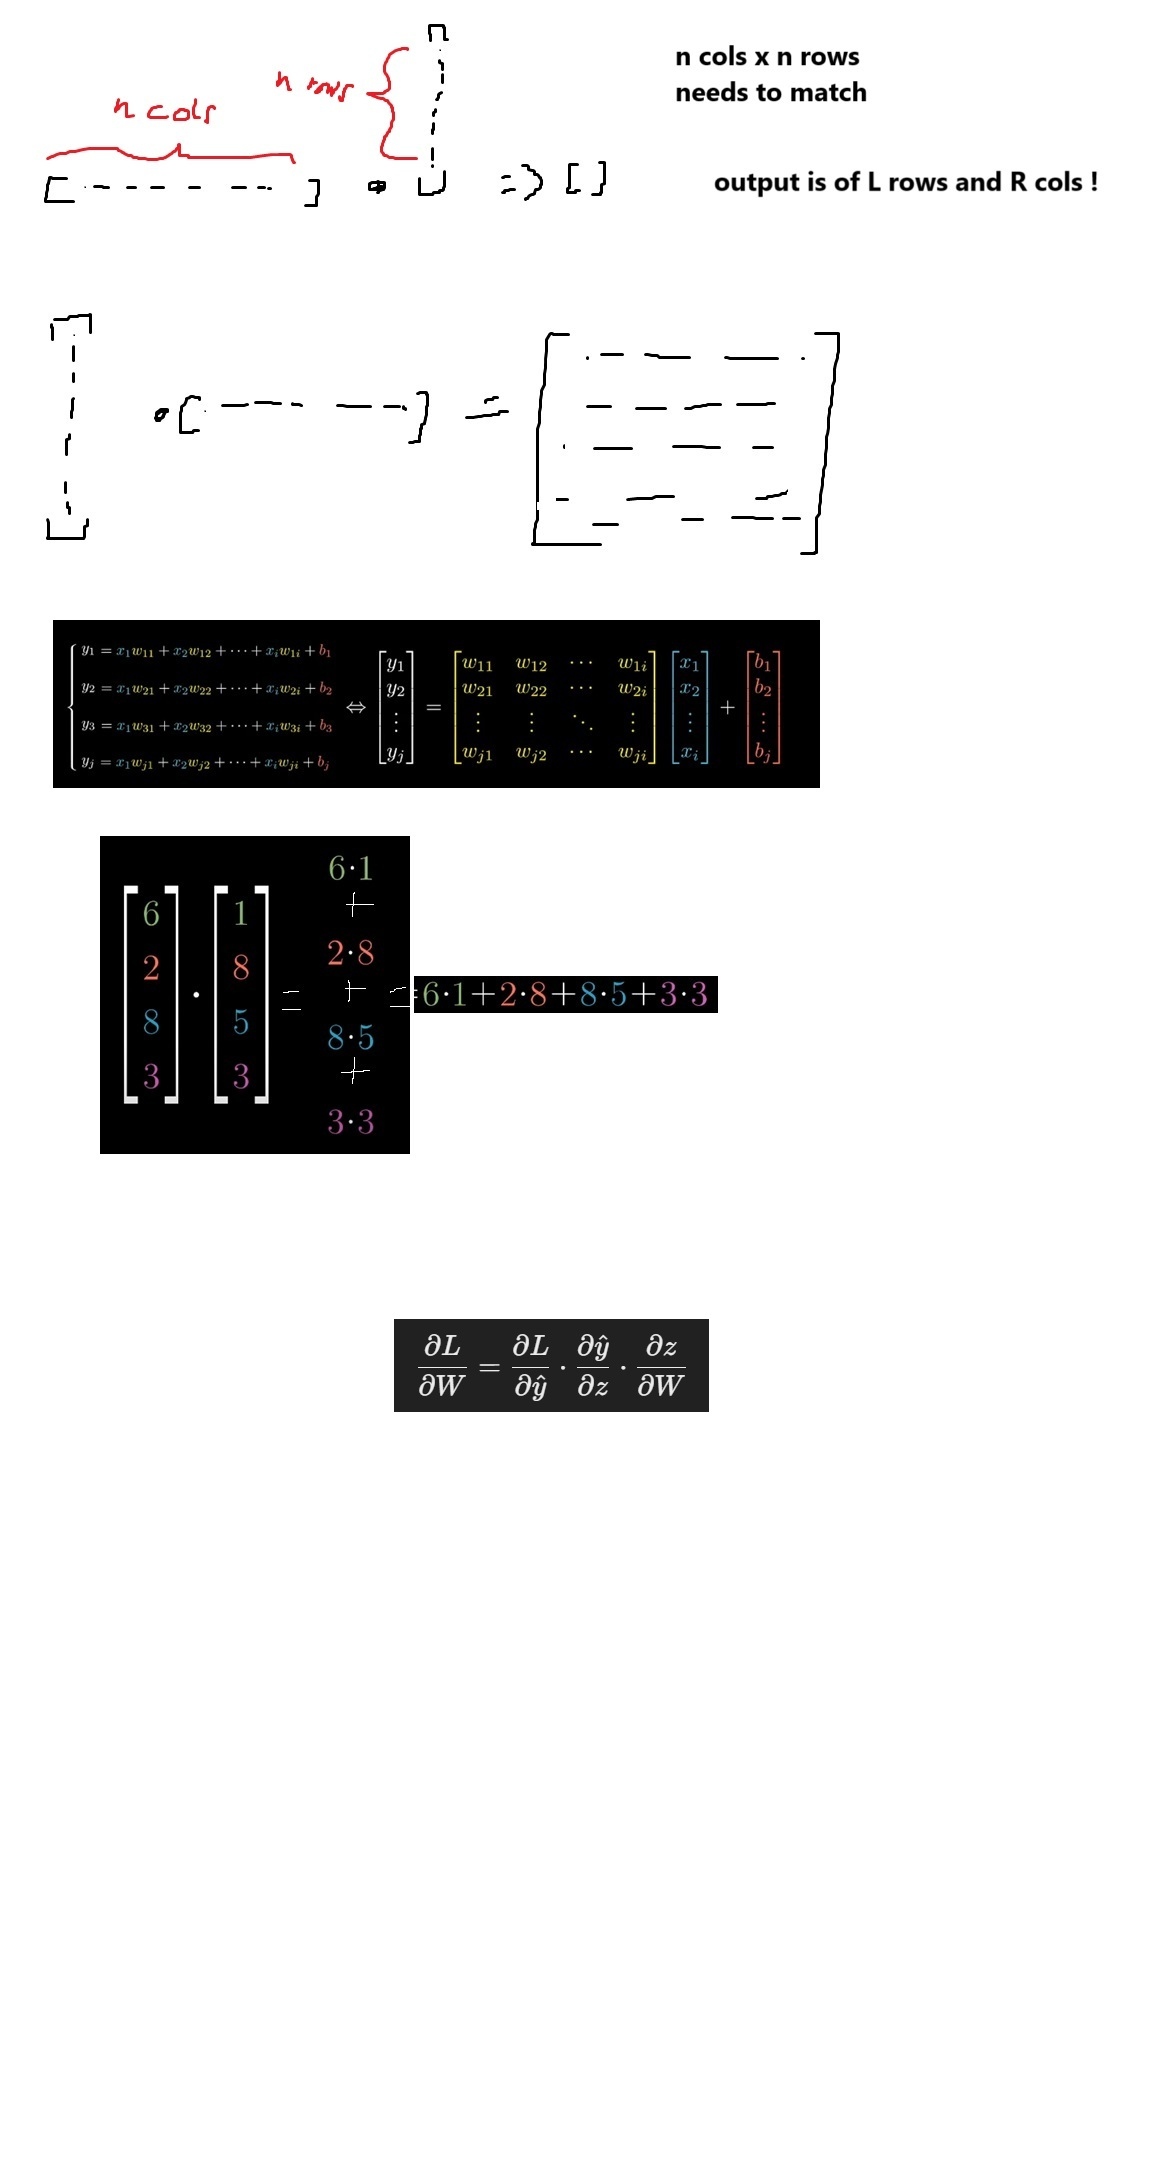
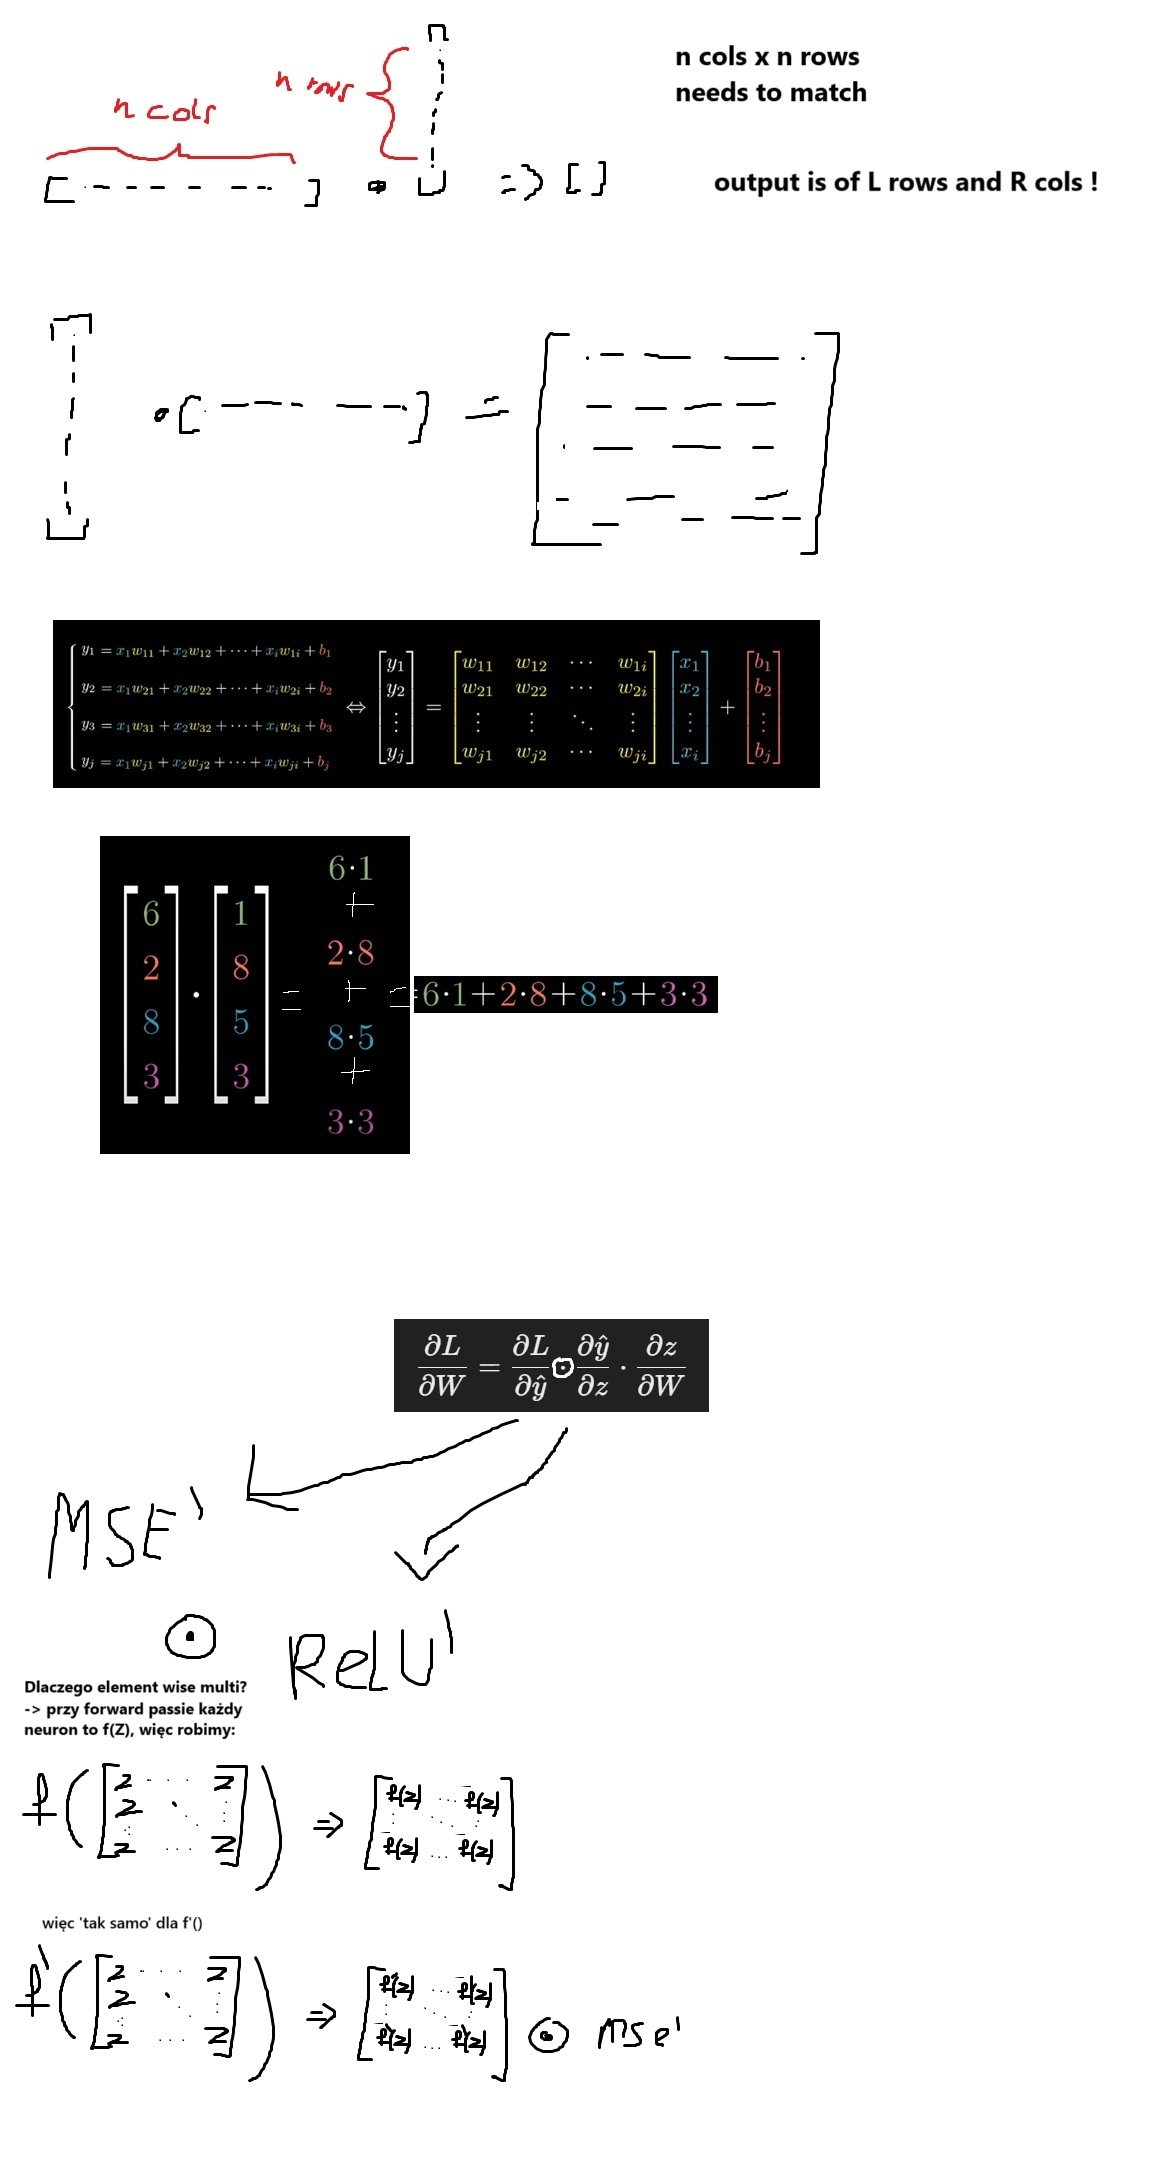
activation backprop

diff --git a/layer.py b/layer.py
@@ -1,12 +1,15 @@
 import numpy as np
 
-# base layer to later inherit from
+# TODO network to powinien byc obiekt, ktory tworzymy
+# dajemy mu parametry sieci, optimiser, 
+# weight init metod i bias init valule jako opcjonalne
 
 class Layer:
     def __init__(self):
         self.input = None
         self.output = None
     
+    # forward backward needed?
     def forward(self, input):
         pass
 
@@ -22,12 +25,14 @@ class Dense(Layer):
         self.bias = np.zeros(output_size)
         # self.bias = np.full(output_size, 0.01)  # można dać 0.01 dla ReLU
 
-
     def forward(self, input):
         self.input = input 
         self.output = self.input @ self.weights + self.bias
-        # [1,input] @ [input,output] + [1,output]  =>  [1,output]
+        # [batch,input] @ [input,output] + [1,output]  =>  [batch,output]
 
     def backward(self, output_grad, learning_rate):
         raise NotImplementedError("Not implemented yet")
         # jeżeli chcemy mieć możliwość wyboru optimisera, to trzeba będzie w jakiś sposób powiedzieć o tym każdemu layerowi
+
+
+# pip install cupy-cuda12x

diff --git a/loss.py b/loss.py
@@ -20,7 +20,7 @@ class MeanSquaredError(Loss):
 
         # MSE loss function derivative with respect to predicted vaules y^
         def mse_prime(y_true, y_pred):
-            n = len(y_true)  # lub np.size() lub .shape[0]
+            n = np.size(y_true)
             return -2/n * (y_true - y_pred)
         
         super().__init__(mse, mse_prime)
@@ -46,5 +46,5 @@ więc d mse / d y^
 """
 
 def cross_entropy_loss(y_true, y_pred):
-    n = len(y_true)
+    n = np.size(y_true)
     return -sum(y_true * np.log(y_pred + 1e-9)) / n  # epsilon to avoid 0 log, div by N to account for batch size

diff --git a/activation.py b/activation.py
@@ -1,7 +1,7 @@
 import numpy as np
 from layer import Layer
 
-# TODO parametrical relu
+# TODO parametrical relu, def backward będzie w nim do zmiany?
 
 class Activation(Layer):
     def __init__(self, activation, activation_prime):
@@ -13,7 +13,8 @@ class Activation(Layer):
         return self.activation(self.input)
     
     def backward(self, output_grad, learning_rate):
-        raise NotImplementedError("Not implemented yet")
+        activation_grad = self.activation_prime(self.input)
+        return np.multiply(output_grad, activation_grad)
 
 
 class ReLU(Activation):
